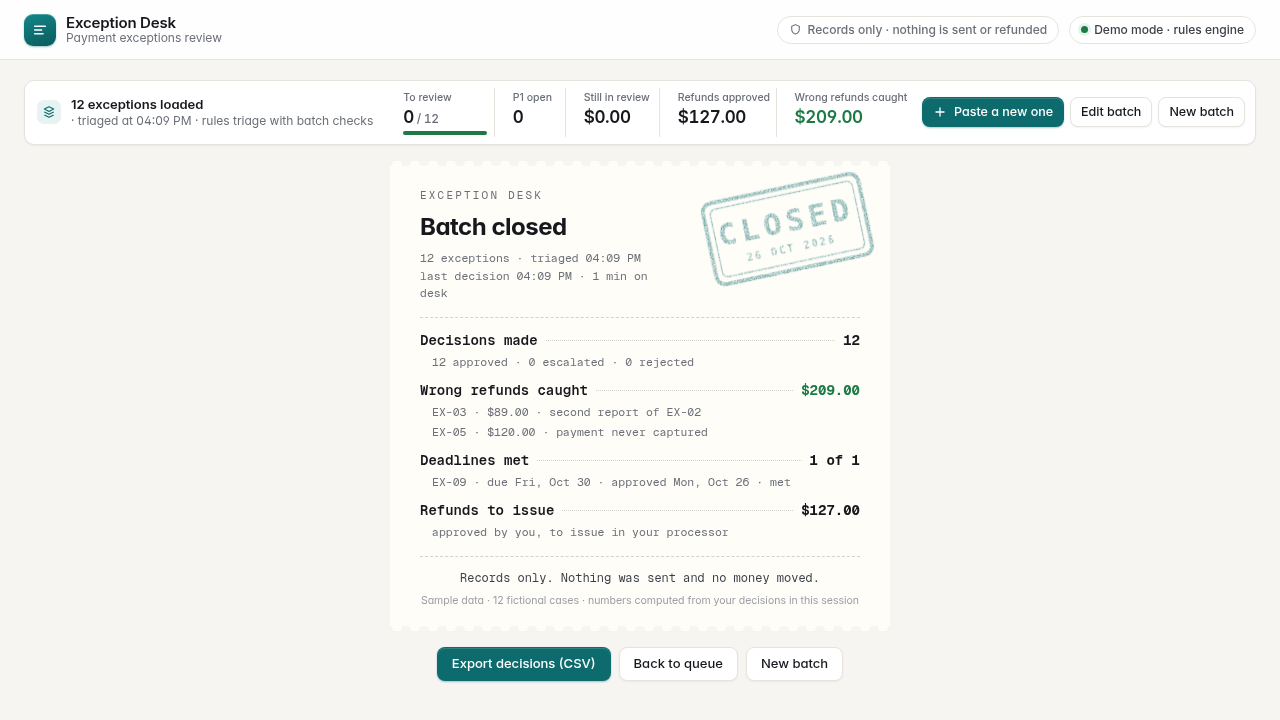
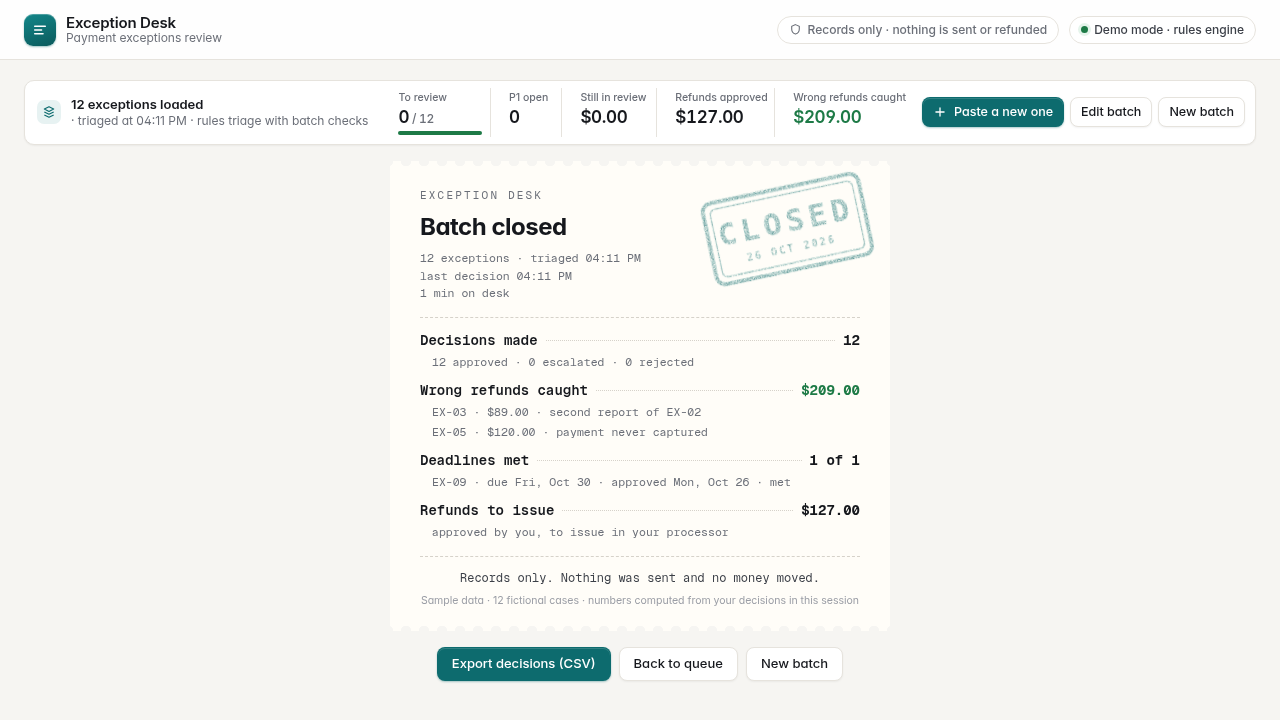
Batch closed: time on desk on its own line; refreshed paste, closed and 1280x720 screenshots

diff --git a/public/app.js b/public/app.js
@@ -726,7 +726,7 @@ function renderClosed() {
         <div class="r-head">
           <div class="r-brand">Exception Desk</div>
           <h2 id="closed-title">Batch closed</h2>
-          <div class="r-meta">${s.total} exceptions${startAt ? ` · triaged ${esc(timeShort(startAt))}` : ''}</div>${s.lastAt ? `<div class="r-meta">last decision ${esc(timeShort(s.lastAt))}${mins ? ` · ${mins} min on desk` : ''}</div>` : ''}
+          <div class="r-meta">${s.total} exceptions${startAt ? ` · triaged ${esc(timeShort(startAt))}` : ''}</div>${s.lastAt ? `<div class="r-meta">last decision ${esc(timeShort(s.lastAt))}</div>` : ''}${mins ? `<div class="r-meta">${mins} min on desk</div>` : ''}
         </div>
         <div class="r-rule"></div>
         ${receiptLine('Decisions made', `${s.decided}`)}
